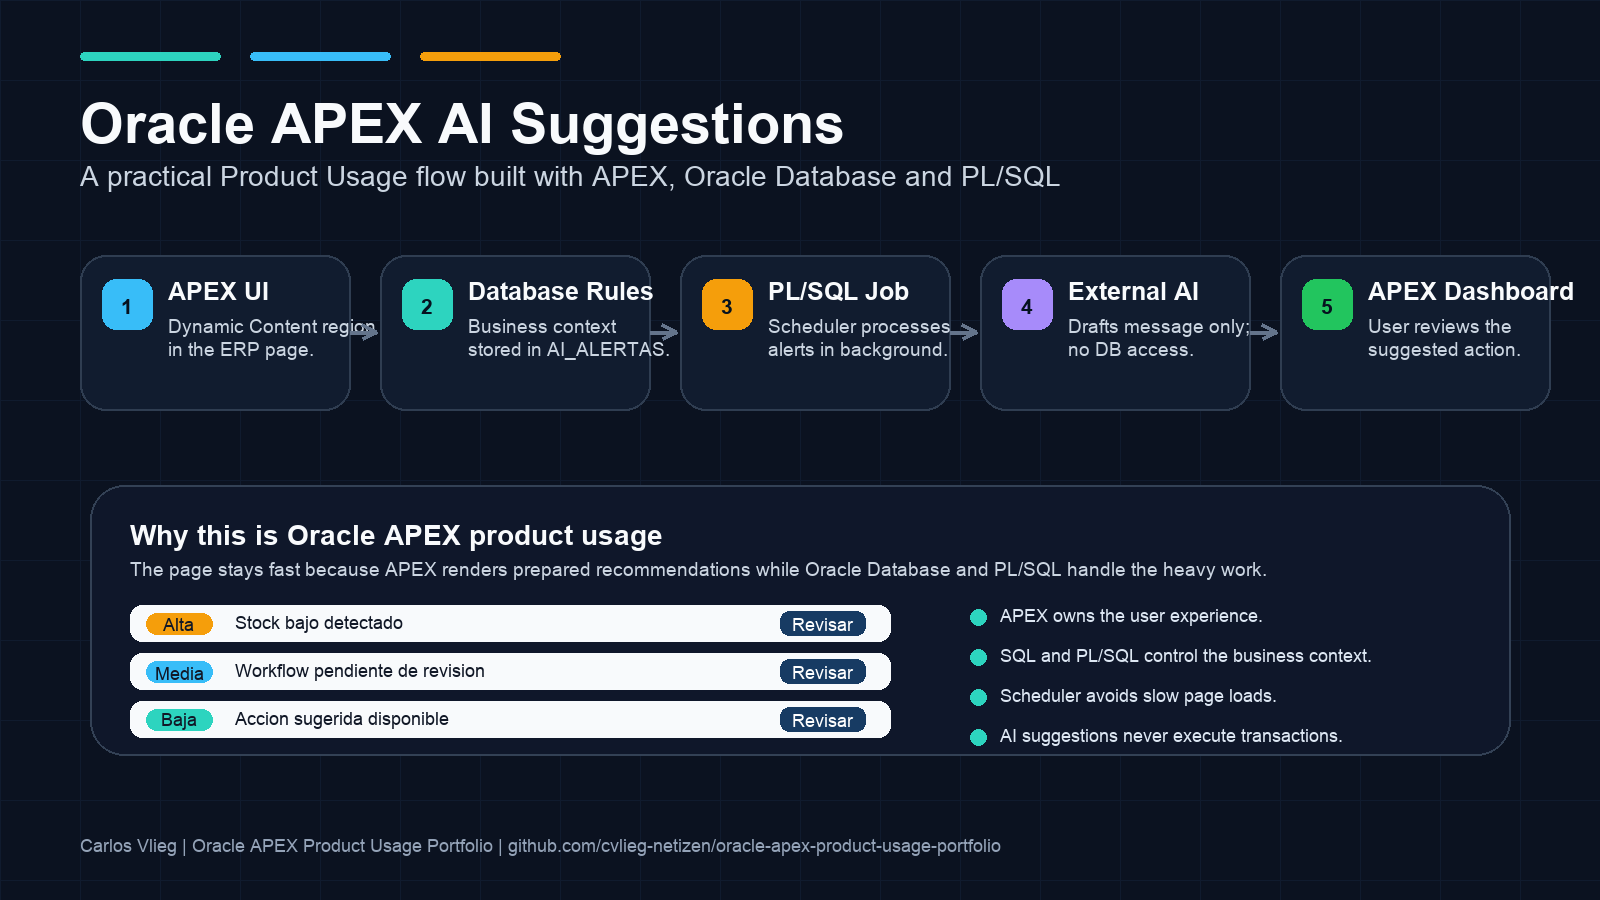
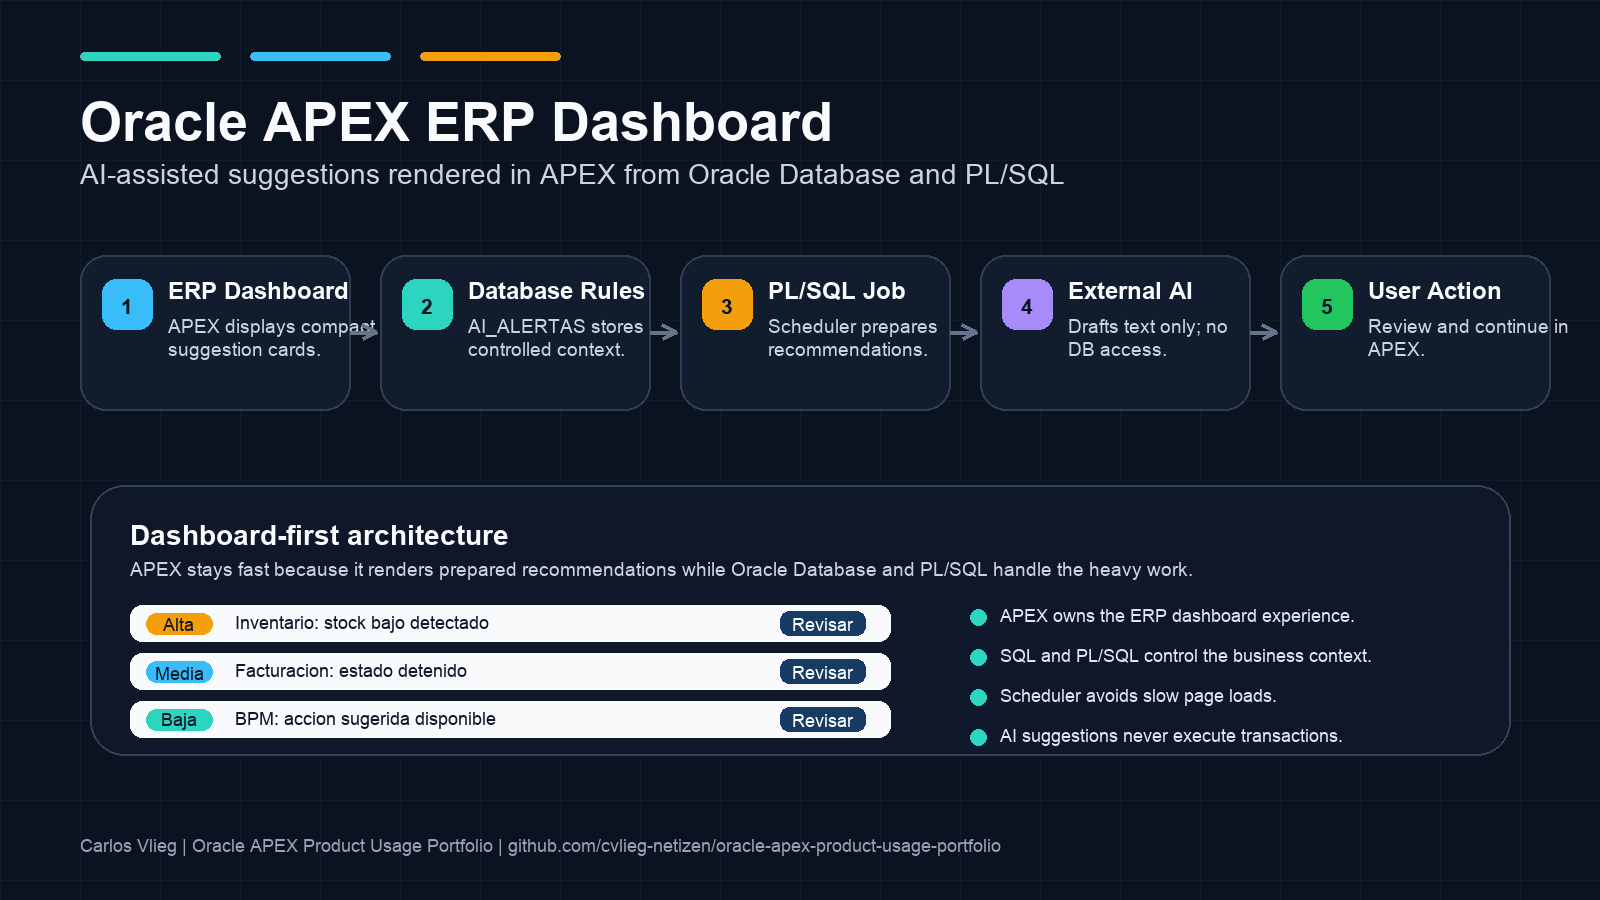
Focus AI suggestions on ERP dashboards

diff --git a/contributions/2026-06-oracle-apex-ai-suggestions/apex/dynamic-content-region-example.md b/contributions/2026-06-oracle-apex-ai-suggestions/apex/dynamic-content-region-example.md
@@ -28,7 +28,7 @@ RETURN app_ia_alertas_pq.dashboard_sugerencias_clob(
 - `GLOBAL_CIA`: tenant
 - `GLOBAL_CENTRO`: operating company or branch context
 - `APP_USER`: current user
-- `GLOBAL_ACTUAL_WF`: workflow context when used in workflow pages
+- `GLOBAL_ACTUAL_WF`: optional ERP process context when the dashboard is filtered by an active workflow
 
 ## Empty State
 
